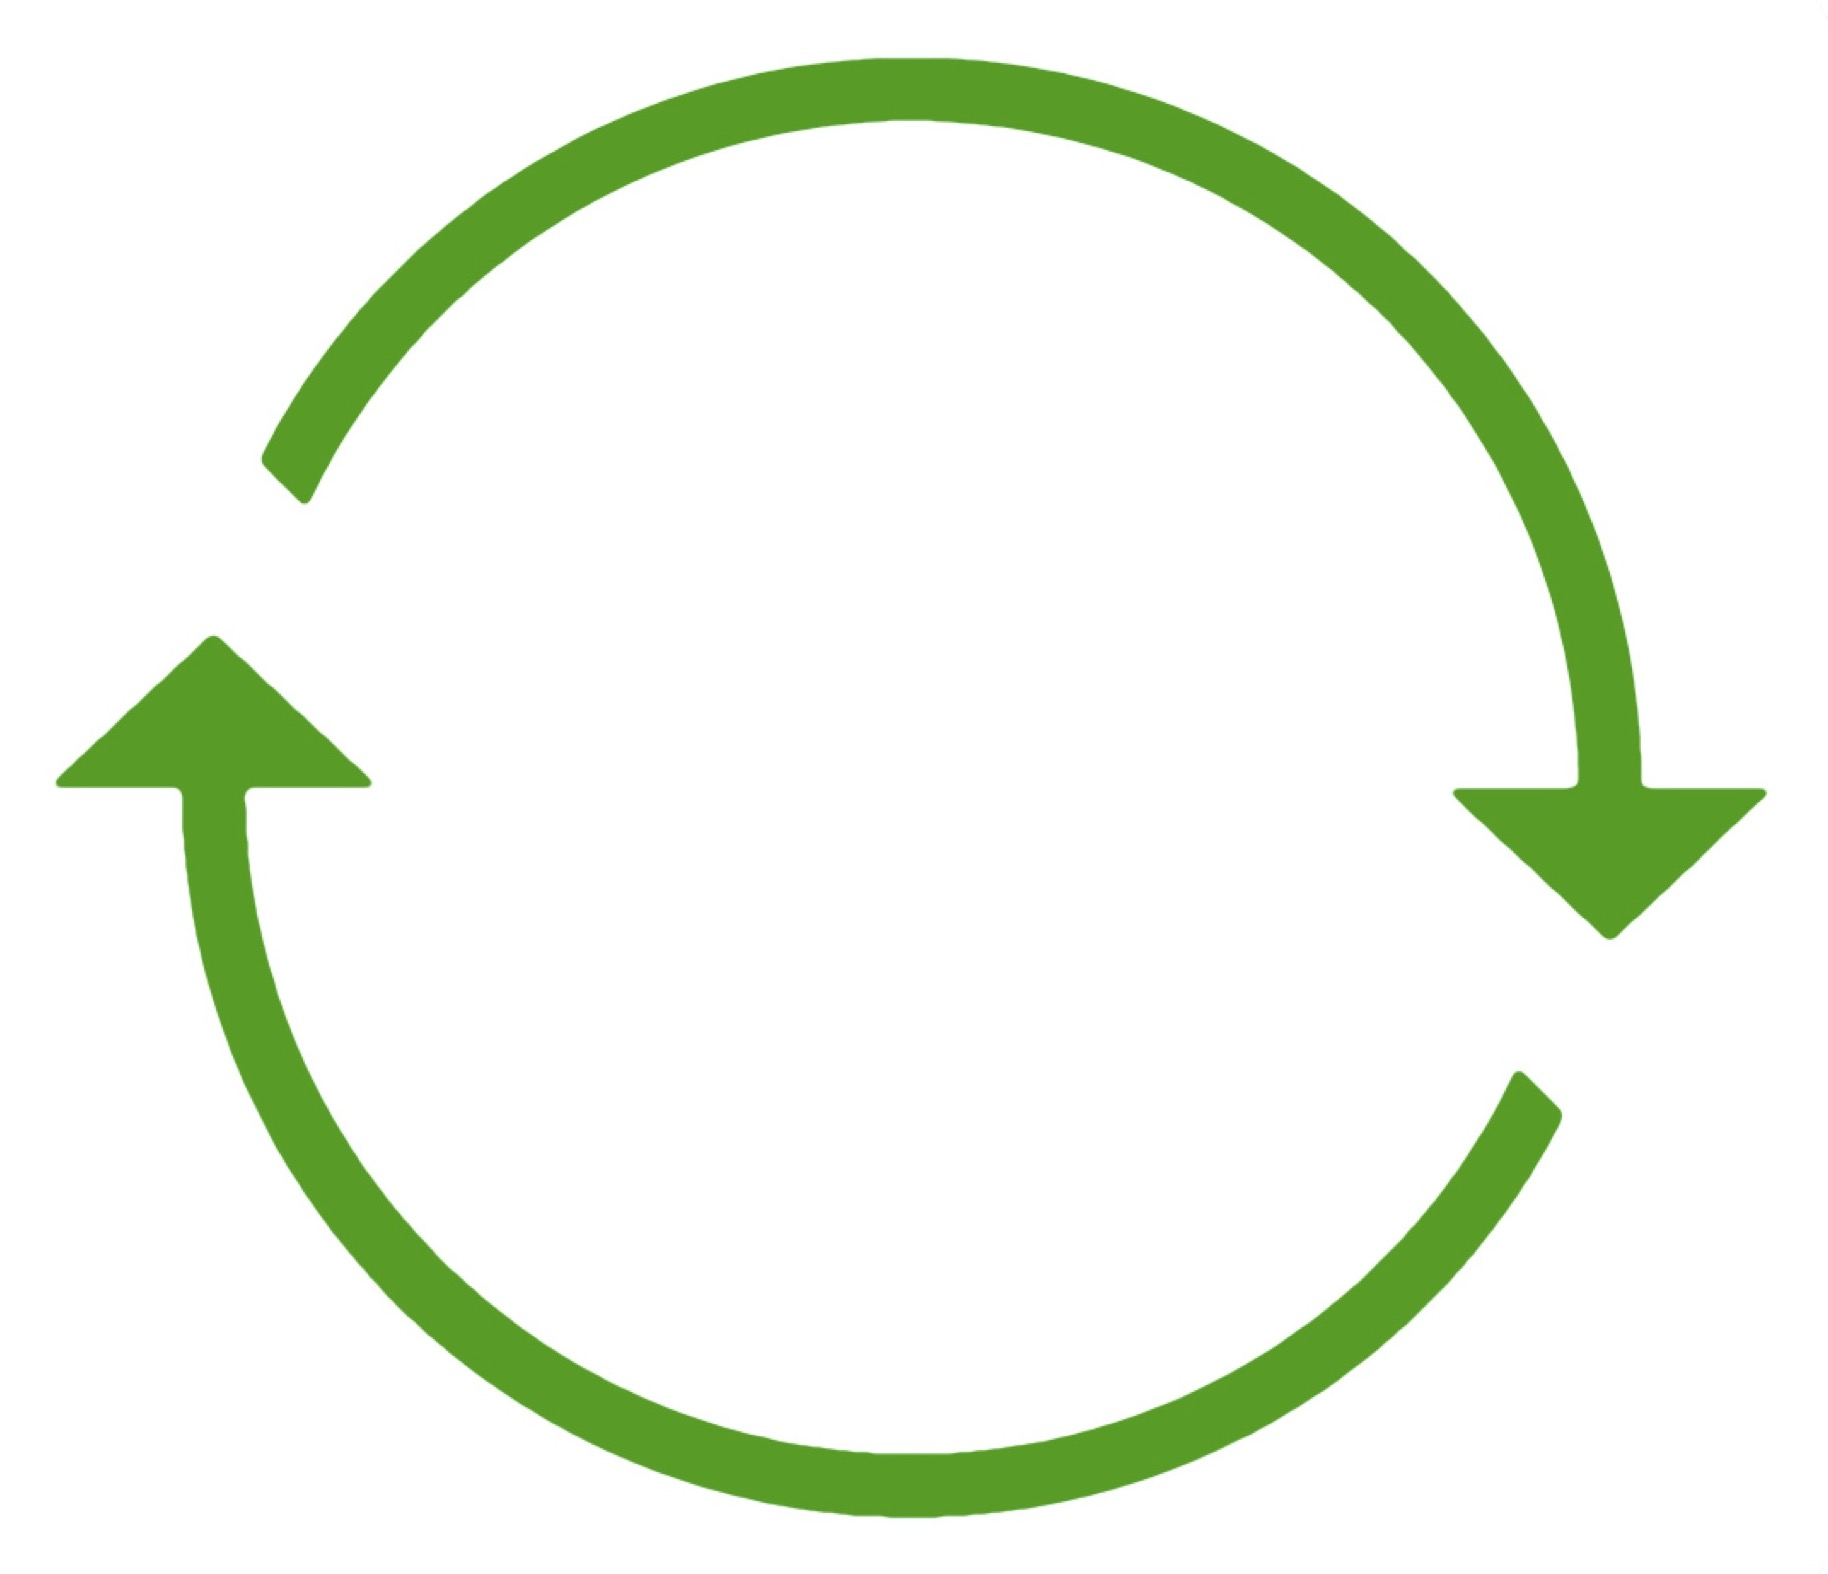
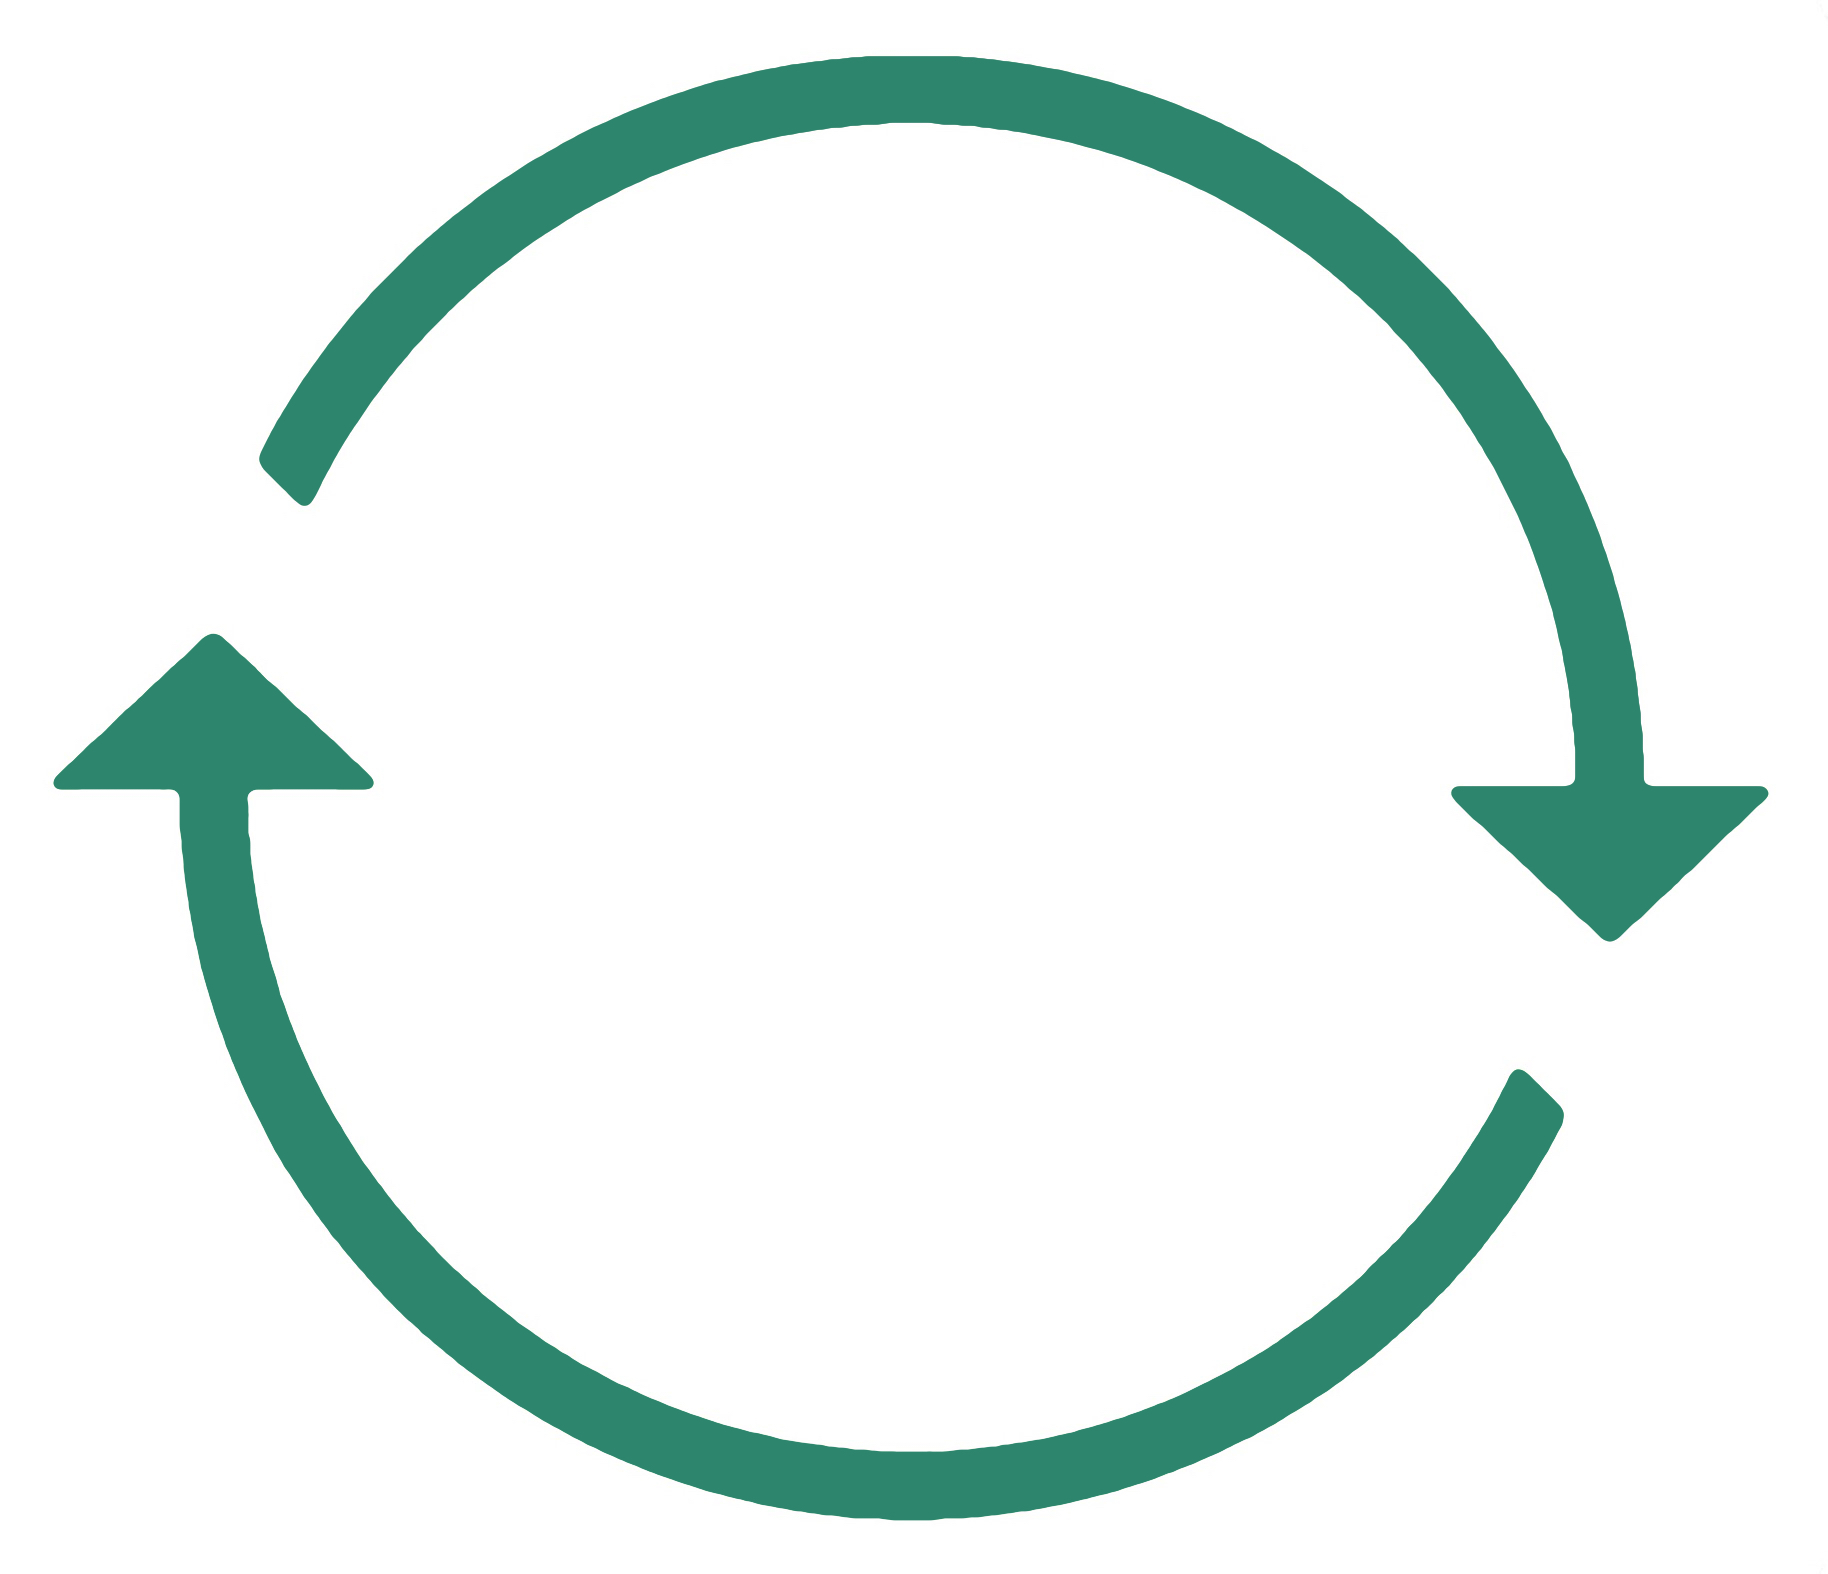
marianne: frontend style updates

Changed region(s): [[0.1247, 0.0311, 0.9666, 0.5915], [0.0312, 0.4047, 0.8731, 0.9651]]

diff --git a/Frontend/green_to_go/lib/components/custom_theme.dart b/Frontend/green_to_go/lib/components/custom_theme.dart
@@ -1,23 +1,23 @@
 import 'package:flutter/material.dart';
 
 const Map<int, Color> green = <int, Color>{
-  50: Color.fromRGBO(70, 154, 45, .1),
-  100: Color.fromRGBO(70, 154, 45, .2),
-  200: Color.fromRGBO(70, 154, 45, .3),
-  300: Color.fromRGBO(70, 154, 45, .4),
-  400: Color.fromRGBO(70, 154, 45, .5),
-  500: Color.fromRGBO(70, 154, 45, .6),
-  600: Color.fromRGBO(70, 154, 45, .7),
-  700: Color.fromRGBO(70, 154, 45, .8),
-  800: Color.fromRGBO(70, 154, 45, .9),
-  900: Color.fromRGBO(70, 154, 45, 1),
+  50: Color.fromRGBO(46, 133, 110, .1),
+  100: Color.fromRGBO(46, 133, 110, .2),
+  200: Color.fromRGBO(46, 133, 110, .3),
+  300: Color.fromRGBO(46, 133, 110, .4),
+  400: Color.fromRGBO(46, 133, 110, .5),
+  500: Color.fromRGBO(46, 133, 110, .6),
+  600: Color.fromRGBO(46, 133, 110, .7),
+  700: Color.fromRGBO(46, 133, 110, .8),
+  800: Color.fromRGBO(46, 133, 110, .9),
+  900: Color.fromRGBO(46, 133, 110, 1),
 };
 
 Map<String, Color> colors = <String, Color>{
-  'primary': const Color(0xFF469A2D),
-  'darkPrimary': const Color(0xFF469A2D),
-  'attention': const Color(0xFF469A2D),
-  'light': const Color(0xFF469A2D),
+  'primary': const Color(0xFF2E856E),
+  'darkPrimary': const Color(0xFF005E45),
+  'attention': const Color(0xFF6ACB8C),
+  'light': const Color(0xFF53DC98),
   'disabled': Colors.grey,
 };
 
@@ -28,7 +28,7 @@ class CustomTheme {
 
   static ThemeData appTheme() {
     return ThemeData(
-      primarySwatch: const MaterialColor(0xFF469A2D, green),
+      primarySwatch: const MaterialColor(0xFF2E856E, green),
       visualDensity: VisualDensity.adaptivePlatformDensity,
       fontFamily: 'Raleway',
     );
